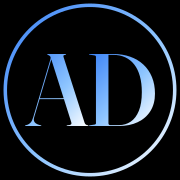
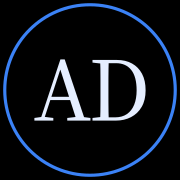
Brand: revised AD mark — text serif, solid fill

Changed region(s): [[0.1389, 0.2778, 0.8611, 0.7222], [0.0, 0.0, 1.0, 1.0]]

diff --git a/app/components/HomeMark.tsx b/app/components/HomeMark.tsx
@@ -2,31 +2,24 @@ interface HomeMarkProps {
   className?: string;
 }
 
-// Inlined from public/letters.svg so the gradient paints via SVG (no network
-// fetch, no filter dependency on globals.css). viewBox is tight to the glyph
-// bounds so the serif AD fills ~55% of the 44px header pill.
+// Inlined from public/letters.svg (revised cut, Source Serif 4 outlines,
+// solid #E5EEFF fill). The tight viewBox crops to the glyph bounds so the
+// serif AD fills ~55% of the 44px header pill; glyph center sits at the
+// viewBox center so it's optically centered without a nudge.
 export default function HomeMark({ className }: HomeMarkProps) {
   return (
     <svg
       aria-hidden="true"
       focusable="false"
       className={className}
-      viewBox="34 60 132 80"
-      width="26"
-      height="16"
+      viewBox="50 72 100 56"
+      width="25"
+      height="14"
       shapeRendering="geometricPrecision"
-      style={{ transform: "translateY(0.5px)" }}
     >
-      <defs>
-        <linearGradient id="ad-mark-grad" x1="0" y1="0" x2="1" y2="1">
-          <stop offset="0" stopColor="#3B82F6" />
-          <stop offset="0.55" stopColor="#8EC5FF" />
-          <stop offset="1" stopColor="#FFFFFF" />
-        </linearGradient>
-      </defs>
-      <g transform="translate(37.142 137.000) scale(0.052857)" fill="url(#ad-mark-grad)">
-        <path d="M271.59991455078125 -542.39990234375H807.9990844726562L810.3991088867188 -527.999755859375H267.19989013671875ZM267.001708984375 -4.800048828125Q267.001708984375 -3.4000244140625 265.7016906738281 -1.70001220703125Q264.40167236328125 0.0 261.8016357421875 0.0H7.399658203125Q5.599609375 0.0 3.89959716796875 -1.70001220703125Q2.1995849609375 -3.4000244140625 2.1995849609375 -4.800048828125Q2.1995849609375 -7.40008544921875 4.199615478515625 -8.60009765625Q6.19964599609375 -9.80010986328125 7.7996826171875 -10.0001220703125L62.9991455078125 -25.79998779296875Q84.99945068359375 -32.80010986328125 104.49984741210938 -53.400543212890625Q124.000244140625 -74.0009765625 141.20037841796875 -130.4014892578125L506.39910888671875 -1335.7982788085938Q513.5992431640625 -1356.798828125 503.49920654296875 -1369.9991455078125Q493.399169921875 -1383.199462890625 459.19927978515625 -1387.5997314453125Q452.79913330078125 -1390.1998901367188 449.59906005859375 -1391.89990234375Q446.39898681640625 -1393.5999145507812 446.39898681640625 -1395.199951171875Q446.39898681640625 -1397.7999877929688 448.1990051269531 -1398.8999938964844Q449.9990234375 -1400.0 453.59906005859375 -1400.0H695.2035522460938Q698.0036010742188 -1400.0 699.4036254882812 -1398.8999938964844Q700.8036499023438 -1397.7999877929688 700.8036499023438 -1395.199951171875Q700.8036499023438 -1393.5999145507812 698.2035827636719 -1391.5998840332031Q695.603515625 -1389.599853515625 689.6033325195312 -1387.999755859375Q655.003662109375 -1386.7996826171875 649.3036804199219 -1379.8995971679688Q643.6036987304688 -1372.99951171875 650.4037475585938 -1352.79931640625L1070.0032348632812 -60.8001708984375Q1078.6032104492188 -35.000244140625 1096.703125 -23.30023193359375Q1114.8030395507812 -11.6002197265625 1145.2028198242188 -10.60015869140625Q1148.6029052734375 -10.0001220703125 1150.1029357910156 -8.700103759765625Q1151.6029663085938 -7.40008544921875 1151.6029663085938 -4.800048828125Q1151.6029663085938 -3.4000244140625 1150.2029418945312 -1.70001220703125Q1148.8029174804688 0.0 1146.0028686523438 0.0H837.5988159179688Q835.5987548828125 0.0 833.7987365722656 -1.70001220703125Q831.9987182617188 -3.4000244140625 831.9987182617188 -4.800048828125Q831.9987182617188 -7.40008544921875 834.69873046875 -8.40008544921875Q837.3987426757812 -9.40008544921875 839.9988403320312 -10.0001220703125L901.1984252929688 -15.2001953125Q921.3985595703125 -18.60028076171875 927.99853515625 -31.700286865234375Q934.5985107421875 -44.80029296875 927.9984741210938 -63.6004638671875L515.5993041992188 -1351.5982666015625L531.5995483398438 -1370.3992919921875L155.4005126953125 -129.201416015625Q145.40045166015625 -97.00115966796875 150.20065307617188 -75.3009033203125Q155.0008544921875 -53.60064697265625 172.30120849609375 -40.900421142578125Q189.6015625 -28.2001953125 215.802001953125 -20.800048828125L259.8016357421875 -10.0001220703125Q263.6016845703125 -9.60009765625 265.30169677734375 -8.40008544921875Q267.001708984375 -7.2000732421875 267.001708984375 -4.800048828125Z" />
-        <path d="M1167.7998046875 -4.800048828125Q1167.7998046875 -9.60009765625 1174.5999145507812 -10.0001220703125L1284.7991943359375 -25.00006103515625Q1300.3992919921875 -27.40008544921875 1306.6993408203125 -33.200103759765625Q1312.9993896484375 -39.0001220703125 1312.9993896484375 -49.8001708984375V-1346.7998657226562Q1312.9993896484375 -1360.7998657226562 1306.9993286132812 -1366.6998901367188Q1300.999267578125 -1372.5999145507812 1284.19921875 -1374.9999389648438L1174.7998657226562 -1390.1998901367188Q1167.7998046875 -1391.9998779296875 1167.7998046875 -1395.3999633789062Q1167.7998046875 -1397.7999877929688 1169.5998229980469 -1398.8999938964844Q1171.3998413085938 -1400.0 1174.7998657226562 -1400.0H1572.6024780273438Q1755.00244140625 -1400.0 1902.802490234375 -1346.2000427246094Q2050.6025390625 -1292.4000854492188 2156.402618408203 -1192.2000732421875Q2262.2026977539062 -1092.0000610351562 2319.2027587890625 -953.39990234375Q2376.2028198242188 -814.7997436523438 2376.2028198242188 -645.1993408203125Q2376.2028198242188 -443.5994873046875 2289.5027465820312 -299.0996398925781Q2202.8026733398438 -154.59979248046875 2051.8023986816406 -77.29989624023438Q1900.8021240234375 0.0 1707.0015258789062 0.0H1174.7998657226562Q1171.1998291015625 0.0 1169.4998168945312 -1.600006103515625Q1167.7998046875 -3.20001220703125 1167.7998046875 -4.800048828125ZM1707.0015258789062 -12.8001708984375Q1859.800537109375 -12.8001708984375 1979.1997680664062 -85.49996948242188Q2098.5989990234375 -158.19976806640625 2167.3985595703125 -303.6996154785156Q2236.1981201171875 -449.199462890625 2236.1981201171875 -667.599609375Q2236.1981201171875 -834.1998901367188 2193.098358154297 -967.3999633789062Q2149.9985961914062 -1100.6000366210938 2065.3991088867188 -1194.3999938964844Q1980.7996215820312 -1288.199951171875 1857.4004516601562 -1337.6998901367188Q1734.0012817382812 -1387.1998291015625 1574.2024536132812 -1387.1998291015625H1445.00390625V-47.6002197265625Q1445.00390625 -31.2001953125 1453.303955078125 -22.00018310546875Q1461.60400390625 -12.8001708984375 1476.2041015625 -12.8001708984375Z" />
+      <g transform="translate(50.244 127.000) scale(0.079966)" fill="#E5EEFF">
+        <path d="M8.623748779296875 0.0V-29.14349365234375L96.52474975585938 -41.64349365234375H116.37625122070312L217.4110107421875 -29.14349365234375V0.0ZM71.05450439453125 0.0 295.510009765625 -675.2872619628906H343.1532287597656L569.4849853515625 0.0H475.4607849121094L285.3170166015625 -592.342041015625H304.2427673339844L299.7427673339844 -578.8172912597656L110.0989990234375 0.0ZM171.18325805664062 -226.3170166015625V-262.31201171875H443.0247497558594V-226.3170166015625ZM371.0992736816406 0.0V-29.069244384765625L487.7527770996094 -42.668243408203125H522.9454956054688L627.093994140625 -29.069244384765625V0.0Z" />
+        <path d="M649.7327575683594 0.0V-29.14349365234375L767.7277526855469 -42.74249267578125H786.6287536621094V0.0ZM734.0942687988281 0.0Q736.0942687988281 -45.475250244140625 736.8566436767578 -97.93812561035156Q737.6190185546875 -150.4010009765625 737.6313934326172 -206.802001953125Q737.6437683105469 -263.2030029296875 737.6437683105469 -318.5050048828125V-358.85650634765625Q737.6437683105469 -410.8317565917969 737.6313934326172 -465.01988220214844Q737.6190185546875 -519.2080078125 736.8690185546875 -571.4208831787109Q736.1190185546875 -623.6337585449219 734.1190185546875 -669.1090087890625H829.1184692382812Q827.6184692382812 -624.1337585449219 826.6184692382812 -571.9332580566406Q825.6184692382812 -519.7327575683594 825.6060943603516 -465.5322570800781Q825.5937194824219 -411.3317565917969 825.5937194824219 -358.85650634765625V-318.5297546386719Q825.5937194824219 -263.7030029296875 825.6060943603516 -207.552001953125Q825.6184692382812 -151.4010009765625 826.6184692382812 -98.68812561035156Q827.6184692382812 -45.975250244140625 829.1184692382812 0.0ZM786.3414916992188 0.0V-35.970245361328125H900.1237487792969Q977.1635131835938 -35.970245361328125 1029.7972717285156 -72.09649658203125Q1082.4310302734375 -108.22274780273438 1109.5597839355469 -175.03712463378906Q1136.6885375976562 -241.85150146484375 1136.6885375976562 -333.65350341796875Q1136.6885375976562 -483.7872619628906 1077.242904663086 -558.7006378173828Q1017.7972717285156 -633.614013671875 908.6287536621094 -633.614013671875H786.3414916992188V-669.1090087890625H920.60400390625Q1014.9454956054688 -669.1090087890625 1085.6929931640625 -630.0842590332031Q1156.4404907226562 -591.0595092773438 1196.1286163330078 -516.6832580566406Q1235.8167419433594 -442.3070068359375 1235.8167419433594 -333.85150146484375Q1235.8167419433594 -226.0989990234375 1192.6657409667969 -151.62374877929688Q1149.5147399902344 -77.14849853515625 1075.3662414550781 -38.574249267578125Q1001.2177429199219 0.0 907.9257507324219 0.0ZM649.7327575683594 -639.9655151367188V-669.1090087890625H786.6287536621094V-626.3665161132812H767.7277526855469Z" />
       </g>
     </svg>
   );

diff --git a/CLAUDE.md b/CLAUDE.md
@@ -37,7 +37,7 @@ Next.js App Router. Every public route uses the `page.tsx` (server, exports `met
 - `AudioShowcase.tsx` — Horizontal row of circular play/pause buttons with a progress ring. Renders `null` while `AUDIO_CLIPS` is empty.
 - `BookingModal.tsx` — Booking inquiry dialog. Focus trap, Esc-to-close, honeypot, body-scroll lock, auto-close on success.
 - `SiteHeader.tsx` — Shared header for every subpage. Symmetric 3-column grid (Placements/Performance · HomeMark · About + Book CTA). Mobile hamburger overlay. Owns its own `BookingModal` state and listens for the `open-booking` event.
-- `HomeMark.tsx` — Inline SVG of the AD serif monogram (built from Fraunces 300 outlines) used as the home-logo glyph in both headers. Renders a letters-only version with a unique gradient id (`ad-mark-grad`, same 3B82F6 → 8EC5FF → FFFFFF stops as the rest of the site) at roughly 26×16 inside the 44px pill. The source SVGs live in `public/mark.svg` (with ring, for standalone use), `public/letters.svg` (no ring, same one inlined in the component), and `public/mark-white.svg` (monochrome fallback).
+- `HomeMark.tsx` — Inline SVG of the AD serif monogram (built from Source Serif 4 outlines, solid `#E5EEFF` fill; the standalone `public/mark.svg` adds a thin `#3B82F6` ring, dropped here because the header pill already draws a ring) used as the home-logo glyph in both headers. Rendered at 25×14 inside the 44px pill, viewBox cropped to the glyph bounds. The source SVGs live in `public/mark.svg` (with ring, for standalone use), `public/letters.svg` (no ring, same one inlined in the component), and `public/mark-white.svg` (monochrome fallback).
 - `LogoArchitectOfSound.tsx` — Centered type lockup with hover scramble. Accepts `showPortrait?: boolean` (default `true`); the hero passes `showPortrait={false}` so the childhood photo is suppressed there — it moved to the top of the About article.
 - `TextScramble.tsx` — Animated glyph-scramble primitive used by the proof strip and the logo.
 - `JsonLd.tsx` — `<script type="application/ld+json">` helper.
